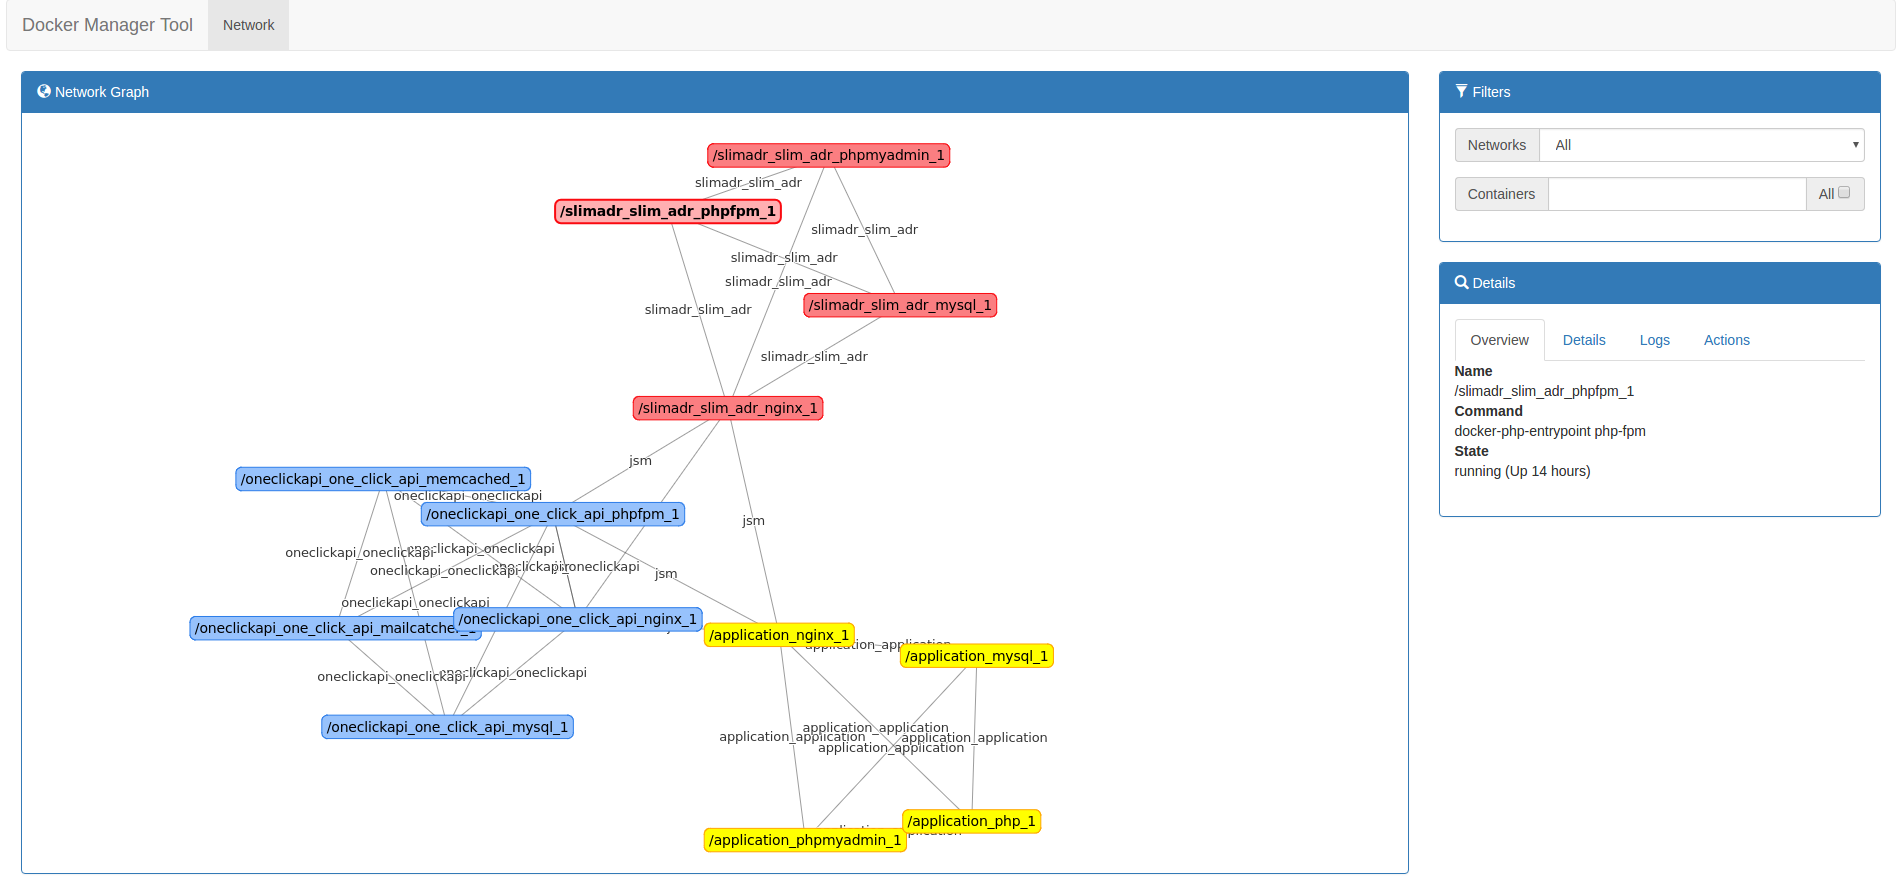
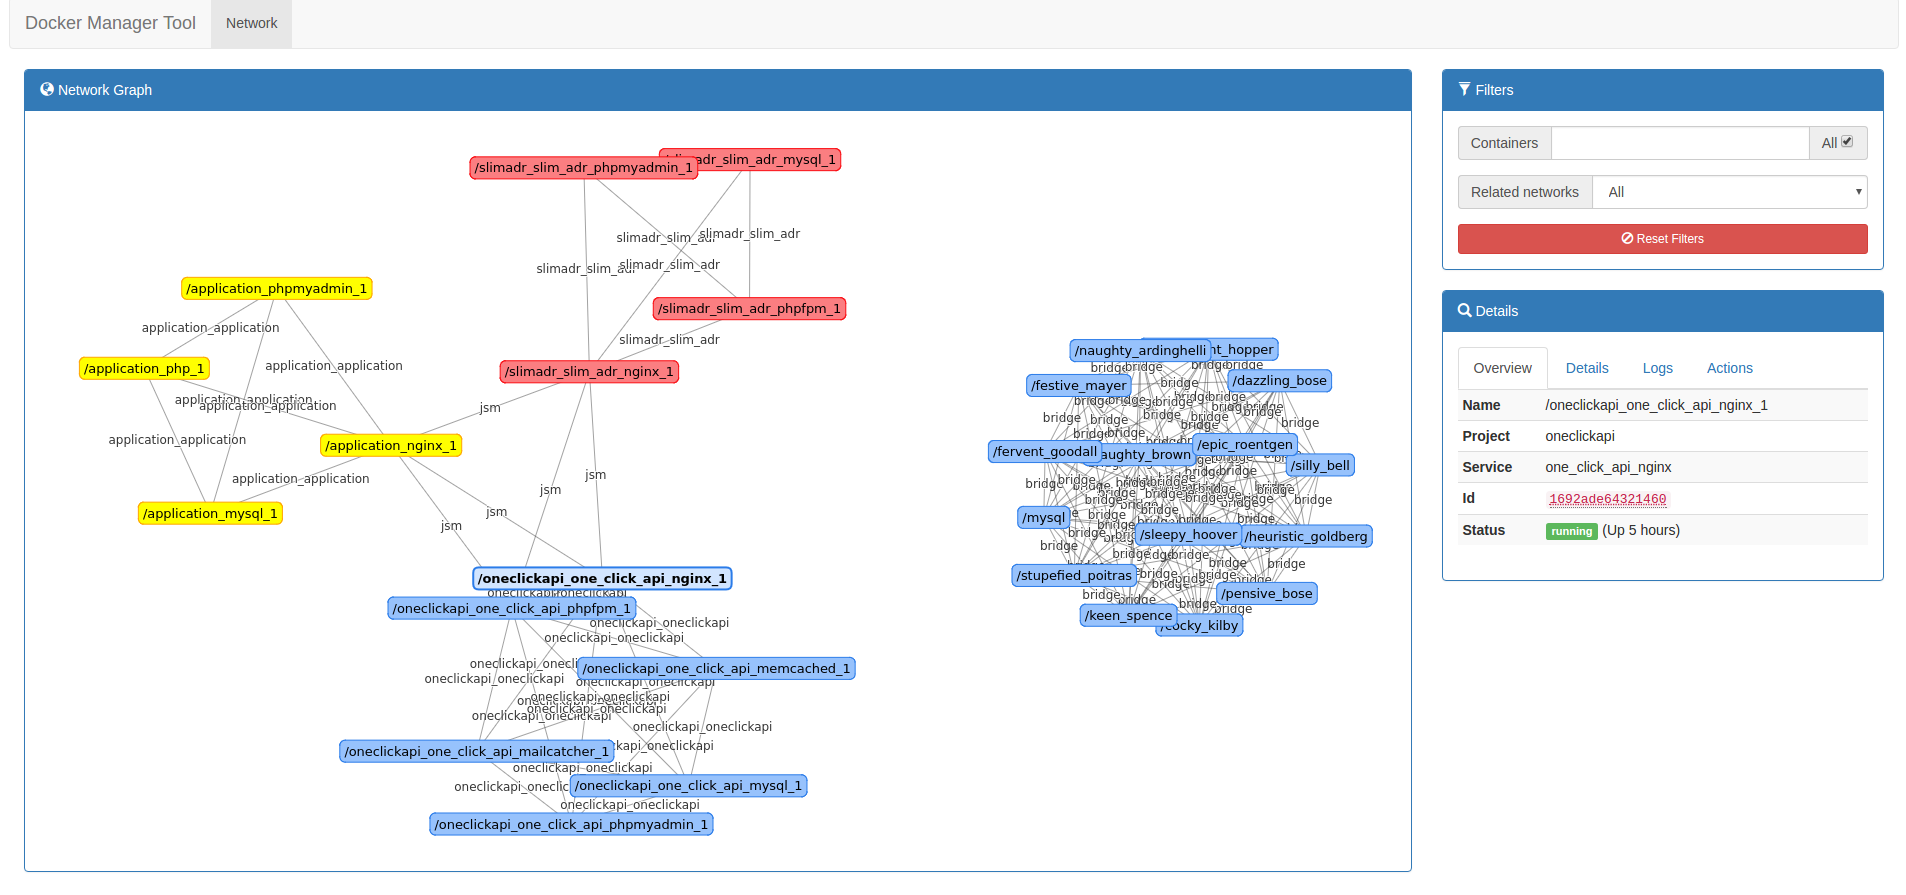
Skin fixes + reduced graph central gravity + doc screenshot update

Changed region(s): [[0.031, 0.0605, 0.9926, 0.9675], [0.0, 0.0, 0.7445, 0.4838], [0.062, 0.4838, 0.1241, 0.514]]

diff --git a/client/src/components/DockerContainerDetails.js b/client/src/components/DockerContainerDetails.js
@@ -1,10 +1,44 @@
 import React from 'react'
 import { Tab, Tabs } from 'react-bootstrap';
 
-const containerDetails = (container) => (
+const renderContainerDetails = (container) => (
 <Tabs id="containerDetails">
     <Tab eventKey={1} title="Overview">
-        <dl>
+        <table className="table table-striped table-condensed">
+            <tbody>
+                <tr>
+                    <th>Name</th>
+                    <td>{container.Names[0]}</td>
+                </tr>
+                <tr>
+                    <th>Project</th>
+                    <td>{container.Labels['com.docker.compose.project'] ? container.Labels['com.docker.compose.project'] : '-'}</td>
+                </tr>
+                <tr>
+                    <th>Service</th>
+                    <td>{container.Labels['com.docker.compose.service'] ? container.Labels['com.docker.compose.service'] : '-'}</td>
+                </tr>
+                <tr>
+                    <th>Id</th>
+                    <td><code><abbr title={container.Id}>{container.Id.substring(0,15)}</abbr></code></td>
+                </tr>
+                <tr>
+                    <th>Status</th>
+                    <td>{renderContainerState(container.State)}&nbsp;({container.Status})</td>
+                </tr>
+            </tbody>
+        </table>
+    </Tab>
+    <Tab eventKey={2} title="Details">
+        <dl className="well">
+            <dt>Command</dt>
+            <dd>{container.Command}</dd>
+            <dt>State</dt>
+            <dd>{container.State} ({container.Status})</dd>
+        </dl>
+    </Tab>
+    <Tab eventKey={3} title="Logs">
+        <dl className="well">
             <dt>Name</dt>
             <dd>{container.Names[0]}</dd>
             <dt>Command</dt>
@@ -13,17 +47,25 @@ const containerDetails = (container) => (
             <dd>{container.State} ({container.Status})</dd>
         </dl>
     </Tab>
-    <Tab eventKey={2} title="Details">
-        Tab 2 content
-    </Tab>
-    <Tab eventKey={3} title="Logs">
-        Tab 3 content
-    </Tab>
     <Tab eventKey={4} title="Actions">
-        Tab 4 content
+        <dl className="well">
+            <dt>Name</dt>
+            <dd>{container.Names[0]}</dd>
+            <dt>Command</dt>
+            <dd>{container.Command}</dd>
+            <dt>Status</dt>
+            <dd>{container.State}&nbsp;({container.Status})</dd>
+        </dl>
     </Tab>
 </Tabs>
 )
+
+const renderContainerState = (containerState) => {
+    return (
+        <span className={"label label-" + (containerState === 'running' ? 'success' : 'danger')}>{containerState}</span>
+    )
+}
+
 
 const DockerContainerDetails = ({container}) => (
     <div className="panel panel-primary">
@@ -31,7 +73,7 @@ const DockerContainerDetails = ({container}) => (
             <span className="glyphicon glyphicon-search" aria-hidden="true"/>&nbsp;Details
         </div>
         <div className="panel-body">
-            { container.Id ? containerDetails(container) : 'Select a container on the network graph.'}
+            { container.Id ? renderContainerDetails(container) : 'Select a container on the network graph.'}
         </div>
     </div>
 )

diff --git a/client/src/components/DockerFilters.js b/client/src/components/DockerFilters.js
@@ -1,5 +1,5 @@
 import React, { Component } from 'react'
-import { FormGroup, InputGroup, FormControl, Button } from 'react-bootstrap';
+import { FormGroup, InputGroup, FormControl } from 'react-bootstrap';
 
 class DockerFilters extends Component {
 
@@ -64,16 +64,20 @@ class DockerFilters extends Component {
                         ref="networksFilterInput"
                         componentClass="select"
                         value={currentNetworkFilter}
-                        onChange={(event) => onNetworkFilter(event.target.value)}
+                        onChange={(event) => {
+                            onNetworkFilter(event.target.value)
+                        }}
                     >
                         <option value='*'>All</option>
-                        {networkFilters.map(filter => <option key={filter} value={filter}>{filter}</option>)}
+                        {networkFilters.map(
+                            filter => <option key={filter} value={filter}>{filter}</option>
+                        )}
                     </FormControl>
                 </InputGroup>
             </FormGroup>
-            <Button bsStyle="danger" className="btn-block btn-sm" onClick={this.onReset}>
-                Reset Filters
-            </Button>
+            <a href="#" className="btn btn-danger btn-block btn-sm" onClick={this.onReset}>
+                <span className="glyphicon glyphicon-ban-circle" aria-hidden="true"/>&nbsp;Reset Filters
+            </a>
         </form>
     </div>
 </div>

diff --git a/client/src/config/config.js b/client/src/config/config.js
@@ -25,7 +25,7 @@ const graphOptions = {
     physics: {
         solver: 'repulsion',
         repulsion: {
-            centralGravity: 0.091,
+            centralGravity: 0.031,
             springLength: 100,
             springConstant: 0.005,
             nodeDistance: 200,
